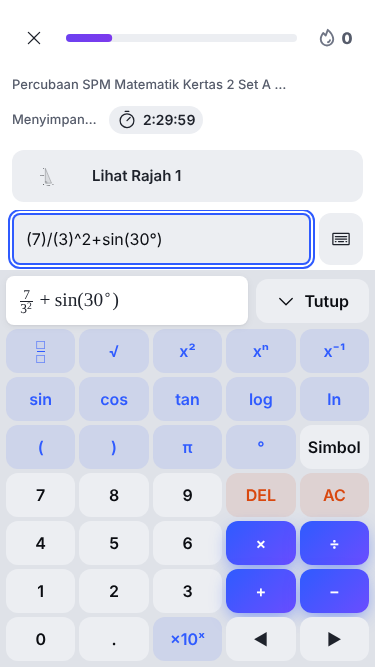
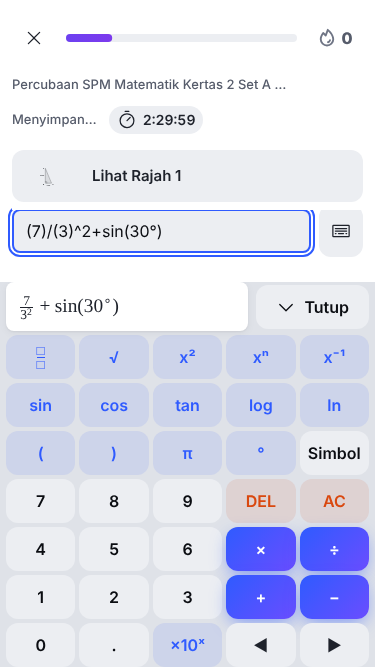
fix(m28-bijak-spm): FB-056 answer field 44 px on phones
The MathField input is 44 px below md (768 px) and 52 px from md up: a theme size `sm` that keeps
the field at 44 px in the learner portal, picked with the existing md media query. The phone sheet
loses its vertical padding and the field is placed flush under the sticky strip when the room is
short, so on 320x640 with the Rajah chip the whole field is visible above the keypad sheet.
Evidence screenshots regenerated.

Claude-Session: https://claude.ai/code/session_01TXT87Q9DVT1cfY4XLBf2z9

diff --git a/src/theme/ui.config.ts b/src/theme/ui.config.ts
@@ -33,6 +33,8 @@ const filled = [
  * the buttons beside them; a control inside a card is always smaller than the card.
  */
 const fieldSize = 'min-h-11 learner:min-h-13 rounded-sm px-3.5 text-base md:staff:text-body'
+/** `sm`: the same field kept at 44px in the learner portal too (answer lines that share a phone screen with a keypad). */
+const fieldSizeCompact = 'min-h-11 rounded-sm px-3.5 text-base md:staff:text-body'
 
 const fieldConfig = {
   slots: { leadingIcon: 'text-muted', trailingIcon: 'text-muted' },
@@ -40,6 +42,7 @@ const fieldConfig = {
   variants: {
     variant: { soft: filled },
     size: {
+      sm: { base: fieldSizeCompact },
       md: { base: fieldSize },
       lg: { base: fieldSize },
     },
@@ -143,8 +146,17 @@ export const uiConfig = {
           'font-size': [
             {
               text: [
-                'display', 'title', 'heading', 'subheading', 'body', 'label', 'caption',
-                'overline', 'th', 'kpi', 'badge',
+                'display',
+                'title',
+                'heading',
+                'subheading',
+                'body',
+                'label',
+                'caption',
+                'overline',
+                'th',
+                'kpi',
+                'badge',
               ],
             },
           ],
@@ -379,7 +391,9 @@ export const uiConfig = {
       size: {
         // `text-xs` (not the `text-badge` role) so it replaces the stock xs/sm sizes (8px / 10px).
         xs: { base: 'rounded-full text-xs px-2 py-0.5 learner:text-caption' },
-        sm: { base: 'rounded-full text-xs px-2 py-0.5 learner:text-caption learner:px-2.5 learner:py-1' },
+        sm: {
+          base: 'rounded-full text-xs px-2 py-0.5 learner:text-caption learner:px-2.5 learner:py-1',
+        },
         md: { base: 'rounded-full text-xs px-2.5 py-1 learner:text-label learner:px-3' },
         lg: { base: 'rounded-full' },
         xl: { base: 'rounded-full' },
@@ -410,7 +424,11 @@ export const uiConfig = {
           item: `border-0 bg-elevated transition-colors duration-fast hover:bg-accented has-data-[state=checked]:bg-primary-soft has-data-[disabled]:opacity-(--ds-disabled-opacity) has-focus-visible:outline-2 has-focus-visible:outline-offset-2 has-focus-visible:outline-primary`,
         },
       },
-      { variant: 'card', color: 'info', class: { item: 'has-data-[state=checked]:bg-info-strong' } },
+      {
+        variant: 'card',
+        color: 'info',
+        class: { item: 'has-data-[state=checked]:bg-info-strong' },
+      },
     ],
   },
 

diff --git a/src/modules/m28-bijak-spm/components/MathField.vue b/src/modules/m28-bijak-spm/components/MathField.vue
@@ -152,7 +152,7 @@ async function revealField(): Promise<void> {
   const fixed = getComputedStyle(sheet).position === 'fixed'
   const free = (fixed ? rect.top : area.bottom - rect.height) - 8
   const f = field.getBoundingClientRect()
-  const top = area.top + pinnedTop(sc, f.left + f.width / 2) + 4
+  const top = area.top + pinnedTop(sc, f.left + f.width / 2) + 2
   const boxTop = box.getBoundingClientRect().top
   const last = ((!wide.value && field) || previewComp.value?.$el || field).getBoundingClientRect()
   let delta: number
@@ -160,7 +160,7 @@ async function revealField(): Promise<void> {
     delta = 0 // already in the free area
   else if (last.bottom - (boxTop - top) <= free)
     delta = boxTop - top // whole field, label first
-  else delta = f.top - top // too little room: the line first, its label under the strip
+  else delta = f.top - top + 2 // too little room: the line first, flush under the strip, label hidden
   if (delta !== 0) sc.scrollTop += delta
 }
 
@@ -240,7 +240,7 @@ onBeforeUnmount(() => {
         autocomplete="off"
         autocapitalize="off"
         spellcheck="false"
-        size="lg"
+        :size="wide ? 'lg' : 'sm'"
         class="min-w-0 grow"
         data-testid="math-input"
         @update:model-value="onInput"
@@ -303,7 +303,7 @@ onBeforeUnmount(() => {
           shadow="none"
           class="mx-auto w-full max-w-md"
         >
-          <div class="p-1.5">
+          <div class="px-1.5">
             <DsStack gap="2xs">
               <!-- Sheet display: the preview of the line next to the close key (the footer is under the sheet).
                    It stays on top when a short (landscape) screen scrolls the sheet. -->

diff --git a/src/modules/m28-bijak-spm/__tests__/math-keypad.test.ts b/src/modules/m28-bijak-spm/__tests__/math-keypad.test.ts
@@ -458,4 +458,17 @@ describe('keypad closing (FB-047 follow-up)', () => {
     expect(w.get('input').attributes('inputmode')).toBe('decimal')
     w.unmount()
   })
+
+  it('the answer field is the 44 px size on phones and the 52 px size from md', async () => {
+    phone()
+    const small = mount(MathField, { props: { modelValue: '', label: 'Langkah 1' }, global })
+    await small.vm.$nextTick()
+    expect(small.findComponent({ name: 'Input' }).props('size')).toBe('sm')
+    small.unmount()
+    vi.unstubAllGlobals()
+    const wide = mount(MathField, { props: { modelValue: '', label: 'Langkah 1' }, global })
+    await wide.vm.$nextTick()
+    expect(wide.findComponent({ name: 'Input' }).props('size')).toBe('lg')
+    wide.unmount()
+  })
 })
